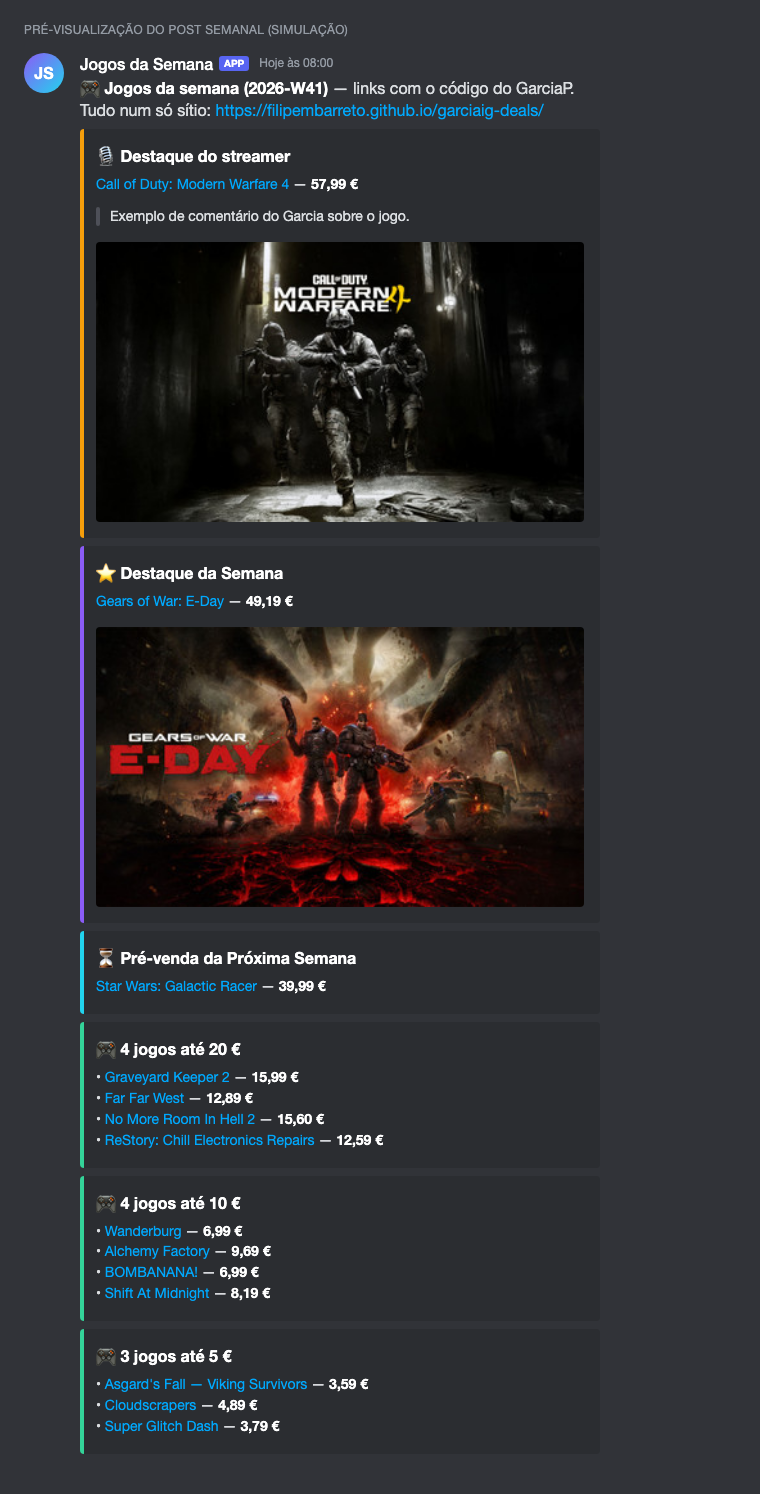
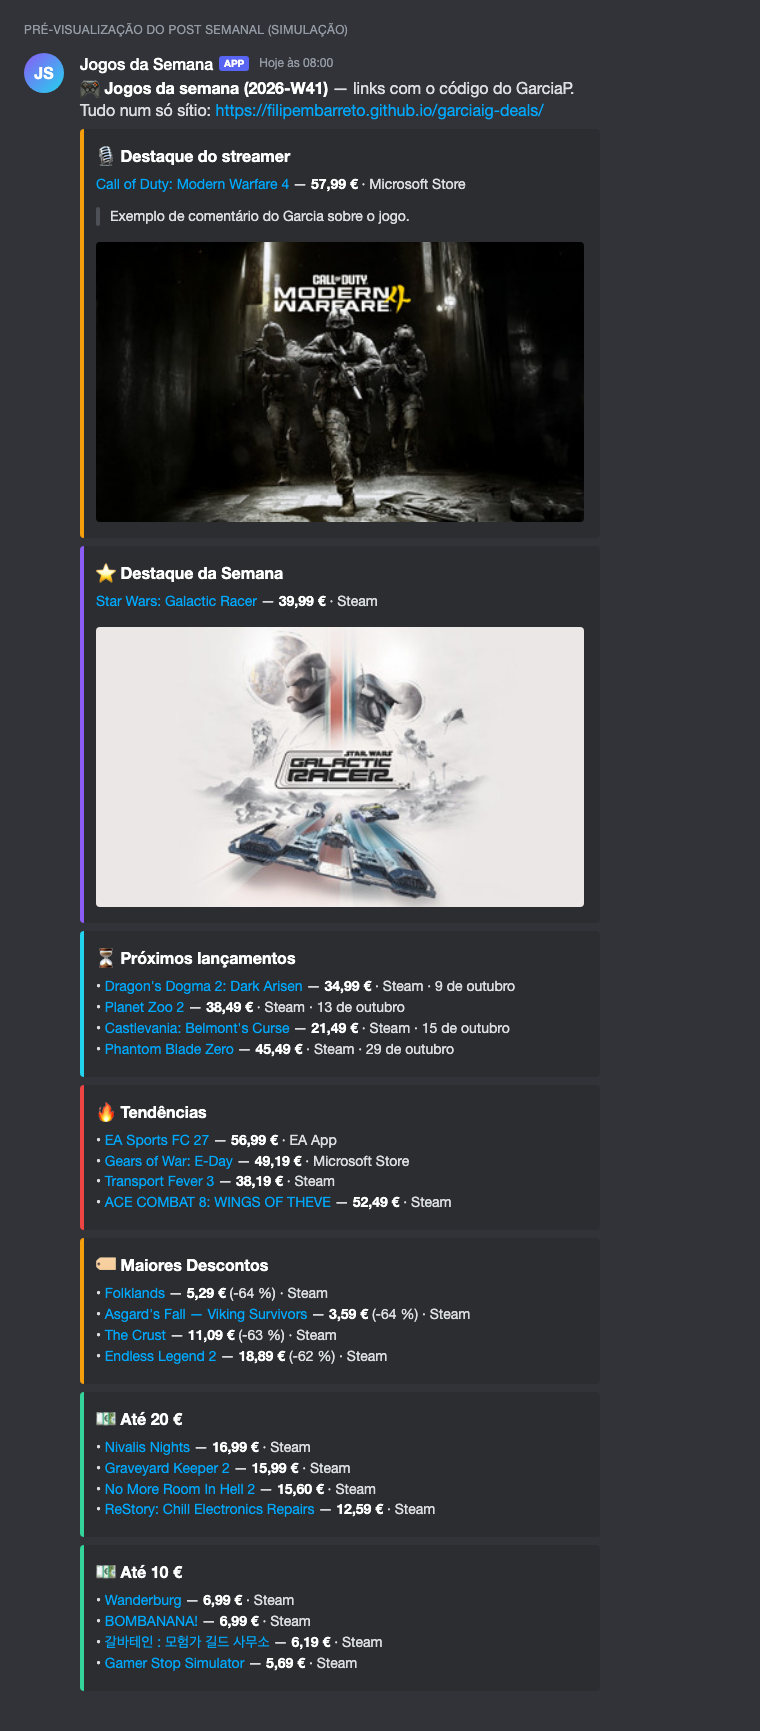
feat: troca os títulos dos cartões grandes por etiquetas
Os dois cartões grandes deixam de ter título visível e passam a ter uma
etiqueta: "Escolha do streamer" (âmbar) e "Destaque da semana" (violeta).
Os títulos mantêm-se só para leitores de ecrã. O Discord mantém os títulos.

diff --git a/templates/style.css b/templates/style.css
@@ -45,7 +45,12 @@ h2{font-size:1.4rem;margin:0 0 14px}
 @media (prefers-reduced-motion:reduce){.card{transition:none}}
 .note{color:var(--muted);font-size:13px;margin:8px 0 0}
 
-.badge-streamer{align-self:flex-start;display:inline-block;background:linear-gradient(90deg,#f59e0b,#f97316);color:#2a1300;font-weight:800;font-size:13px;letter-spacing:.02em;padding:3px 11px;border-radius:999px}
+.tag-big{align-self:flex-start;display:inline-block;font-weight:800;font-size:13px;letter-spacing:.02em;padding:3px 11px;border-radius:999px}
+.tag-streamer{background:linear-gradient(90deg,#f59e0b,#f97316);color:#2a1300}
+.tag-featured{background:linear-gradient(90deg,#8b5cf6,#6d28d9);color:#fff}
+.sr-only{position:absolute;width:1px;height:1px;margin:-1px;padding:0;overflow:hidden;clip:rect(0,0,0,0);clip-path:inset(50%);white-space:nowrap;border:0}
+section.top-card{margin:20px 0 0}
+section.top-card:first-of-type{margin-top:28px}
 .note-streamer{margin:10px 0 4px;padding:10px 14px;border-left:4px solid #f59e0b;background:#f59e0b14;color:var(--text);border-radius:0 10px 10px 0;font-style:italic;font-size:1rem;overflow-wrap:anywhere}
 .card-streamer{border-color:#f59e0b66}
 .saving{margin:0 0 6px;color:var(--ok);font-weight:700;font-size:.95rem}

diff --git a/tests/test_render.py b/tests/test_render.py
@@ -70,9 +70,9 @@ def test_streamer_section_first_with_badge_and_escaped_note(tmp_path):
     w.streamer = game(7, "Pick <b>Game</b>", 12.5)
     w.streamer_note = "Joguem <script>alert(1)</script> & divirtam-se"
     html = render.render_site(w, tmp_path, date(2026, 10, 5)).read_text(encoding="utf-8")
-    assert "🎙 Destaque do Streamer" in html
+    assert '<h2 class="sr-only">Destaque do Streamer</h2>' in html
     assert html.index("Destaque do Streamer") < html.index("Destaque da Semana") < html.index("Próximos Lançamentos")
-    assert "Escolha do streamer" in html and 'class="badge-streamer"' in html
+    assert "Escolha do streamer" in html and '<span class="tag-big tag-streamer">Escolha do streamer</span>' in html
     assert '<blockquote class="note-streamer">Joguem &lt;script&gt;alert(1)&lt;/script&gt; &amp; divirtam-se</blockquote>' in html
     assert "<script>" not in html and "Pick &lt;b&gt;Game&lt;/b&gt;" in html
     assert "https://www.instant-gaming.com/pt/7-comprar-slug-7/?igr=garciap" in html
@@ -87,7 +87,7 @@ def test_streamer_without_note_has_no_blockquote(tmp_path):
 
 def test_no_streamer_no_section(tmp_path):
     html = render.render_site(make_week(), tmp_path, date(2026, 10, 5)).read_text(encoding="utf-8")
-    assert "badge-streamer" not in html and "<blockquote" not in html and "Destaque do Streamer" not in html
+    assert "tag-streamer" not in html and "Escolha do streamer" not in html and "<blockquote" not in html and "Destaque do Streamer" not in html
 
 
 def test_zero_price_shows_see_price_label(tmp_path):
@@ -164,8 +164,8 @@ def test_no_count_text_in_site_headings_or_discord_titles(tmp_path):
     w.discounts = [game(60 + i, f"Deal {i}", 10) for i in range(4)]
     w.streamer = game(7, "Pick", 12)
     html = render.render_site(w, tmp_path, date(2026, 10, 5)).read_text(encoding="utf-8")
-    heads = re.findall(r"<h2>(.*?)</h2>", html)
-    assert heads == ["🎙 Destaque do Streamer", "⭐ Destaque da Semana", "⏳ Próximos Lançamentos", "🔥 Tendências",
+    heads = re.findall(r"<h2[^>]*>(.*?)</h2>", html)
+    assert heads == ["Destaque do Streamer", "Destaque da Semana", "⏳ Próximos Lançamentos", "🔥 Tendências",
                      "🏷 Maiores Descontos", "Até 20 €", "Até 10 €"]
     assert not any("jogo" in h.lower() for h in heads)
     titles = [e["title"] for e in discord.build_payload(w)["embeds"]]
@@ -211,3 +211,33 @@ def test_store_pill_on_cover_only_when_store_set(tmp_path):
     w.featured = dataclasses.replace(w.featured, store="Epic Games")
     html = render.render_site(w, tmp_path, date(2026, 10, 5)).read_text(encoding="utf-8")
     assert html.count('<span class="store">') == 2 and '<span class="store">Epic Games</span>' in html
+
+
+def test_big_card_titles_are_screen_reader_only_and_tags_sit_on_the_right_cards(tmp_path):
+    w = make_week()
+    w.streamer = game(7, "Pick", 12.5)
+    html = render.render_site(w, tmp_path, date(2026, 10, 5)).read_text(encoding="utf-8")
+    assert re.findall(r'<h2 class="sr-only">(.*?)</h2>', html) == ["Destaque do Streamer", "Destaque da Semana"]
+    assert "<h2>🎙" not in html and "<h2>⭐" not in html
+    s_card = html[html.index("Escolha do streamer"):]
+    s_card = s_card[:s_card.index("</article>")]
+    assert "Pick" in s_card and "Destaque da semana" not in s_card
+    f_start = html.index('<span class="tag-big tag-featured">Destaque da semana</span>')
+    f_card = html[f_start:html.index("</article>", f_start)]
+    assert "Star Wars: Galactic Racer" in f_card and "Escolha do streamer" not in f_card
+    assert html.count("Escolha do streamer") == 1 and html.count("Destaque da semana") == 1
+    assert html.index("Escolha do streamer") < f_start
+
+
+def test_only_featured_tag_without_streamer_and_notes_stay_under_featured(tmp_path):
+    w = make_week()
+    w.warnings = ["Sem lançamentos na semana corrente; destaque tirado da semana anterior."]
+    html = render.render_site(w, tmp_path, date(2026, 10, 5)).read_text(encoding="utf-8")
+    assert "Escolha do streamer" not in html and html.count('class="tag-big tag-featured"') == 1
+    assert html.index('class="tag-big tag-featured"') < html.index("destaque tirado da semana anterior") < html.index("Próximos Lançamentos</h2>")
+
+
+def test_stylesheet_has_sr_only_and_shared_tag_rules():
+    css = (render.TEMPLATES / "style.css").read_text(encoding="utf-8")
+    assert ".sr-only{" in css and "clip" in css and ".tag-big{" in css and ".tag-featured{" in css and ".tag-streamer{" in css
+    assert "badge-streamer" not in css

diff --git a/README.md b/README.md
@@ -22,7 +22,7 @@ python -m http.server 8765 --directory site
 Cada cartão mostra a loja (Steam, Microsoft Store, EA App, ...) numa etiqueta sobre a capa; no Discord a loja aparece a seguir ao preço.
 
 ## Destaque do streamer (manual)
-Um jogo escolhido à mão aparece numa secção própria no topo do site ("🎙 Destaque do Streamer", com o selo "Escolha do streamer" e o comentário em citação) e como primeiro embed no Discord. Sem escolha, a secção não existe.
+Um jogo escolhido à mão aparece num cartão grande no topo do site (sem título visível), com a etiqueta "Escolha do streamer" e o comentário em citação; o destaque da semana segue-se, com a etiqueta "Destaque da semana" e como primeiro embed no Discord. Sem escolha, a secção não existe.
 
 **Pelo GitHub:** Actions → "Atualização semanal" → *Run workflow* → preencher o link do jogo na Instant Gaming (`https://www.instant-gaming.com/pt/NÚMERO-comprar-nome/`) e, se quiser, o comentário (até 280 caracteres). Para tirar o destaque, marcar "Remover o destaque do streamer".
 - Só quem tem permissão de escrita no repositório pode executar o workflow; o controlo de acesso é essa permissão do GitHub. Um URL "secreto" não protegeria nada num repositório público.
